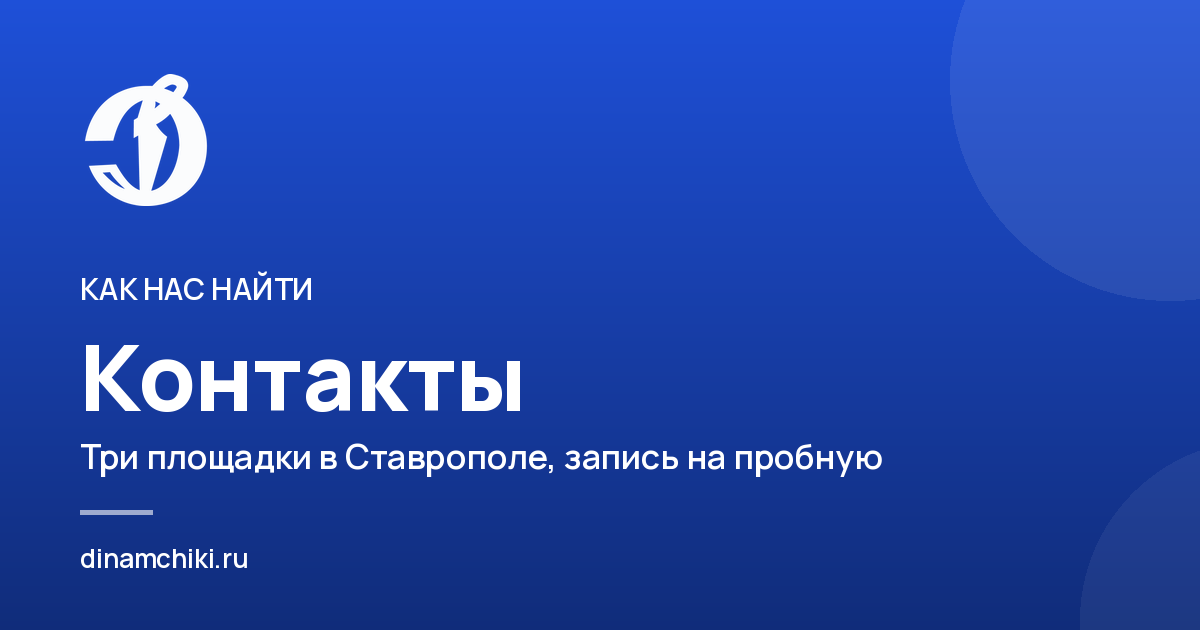
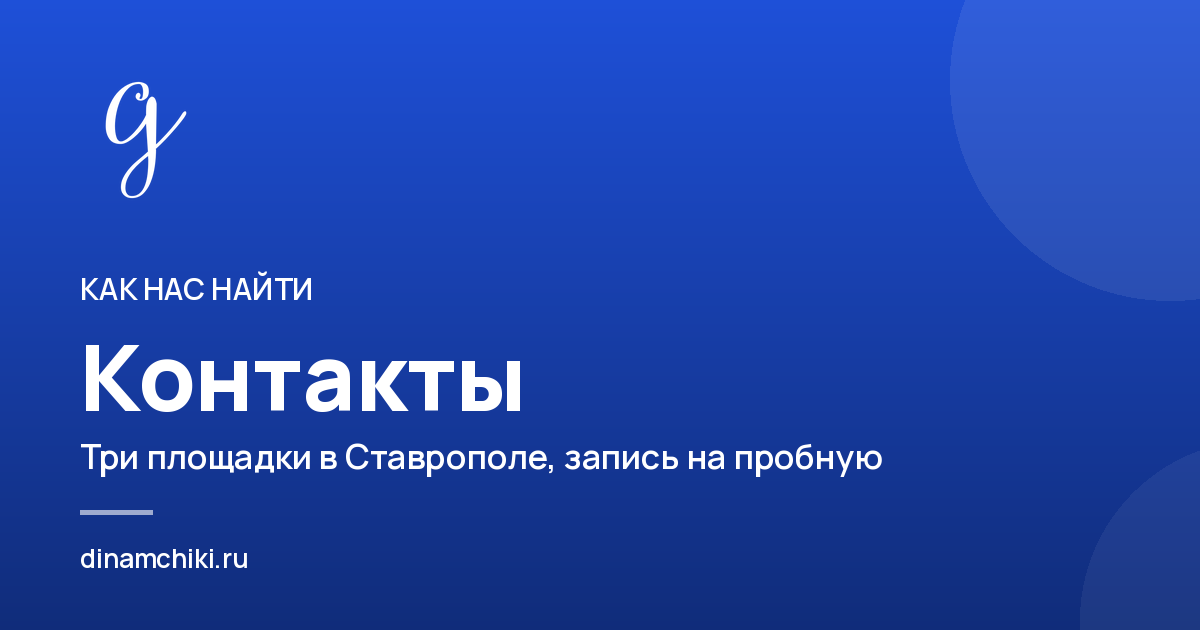
feat: новая эмблема клуба — строчная «д» шрифтом Little Venice
Буква переведена в кривые: public/logo/dinamchiki-d-{blue,white}.svg
(синяя #0066CC для светлого фона, белая для тёмного). LogoMark берёт SVG
вместо PNG с srcset. Фавикон — белая «д» на синем скруглённом квадрате
(dinamchiki-d-favicon.svg + PNG), apple-touch-icon — белая «д» на синем.
PNG логотипа, logo-512 и обложки соцсетей перегенерированы из того же знака.

Changed region(s): [[0.0617, 0.1206, 0.185, 0.3317]]

diff --git a/src/shared/ui/icons/LogoMark.vue b/src/shared/ui/icons/LogoMark.vue
@@ -1,14 +1,12 @@
 <script setup lang="ts">
 /**
- * Логотип клуба — «Д» с фигурой футболиста в круге.
+ * Эмблема клуба — строчная «д», набранная шрифтом Little Venice
+ * и переведённая в кривые (30.10.2026).
  *
- * Раньше здесь был нарисованный щит с монограммой: настоящего логотипа
- * у проекта не было. Клуб передал два файла, синий и белый, — они и стоят
- * тут. Вариант выбирается по фону: на светлой шапке синий, на тёмном
- * подвале белый.
- *
- * Отдаём готовые размеры через srcset, чтобы на ретине логотип не мылился,
- * а на обычном экране не тянулись лишние килобайты.
+ * Два варианта по фону: на светлой шапке синий, на тёмном подвале белый.
+ * Эмблема векторная, поэтому один SVG чёткий на любом экране.
+ * PNG того же знака лежат рядом (/logo/dinamchiki-*-{96,192,512}.png)
+ * для обложек соцсетей и мест, где SVG не принимают.
  */
 withDefaults(
   defineProps<{
@@ -16,9 +14,9 @@ withDefaults(
     /** 'blue' — для светлого фона, 'white' — для тёмного. */
     variant?: 'blue' | 'white'
     /**
-     * Логотип рядом с названием клуба — декоративный: текст «Динамчики»
+     * Эмблема рядом с названием клуба — декоративная: текст «Динамчики»
      * стоит рядом и уже читается скринридером. Осмысленную подпись
-     * задавайте явно там, где логотип стоит один.
+     * задавайте явно там, где эмблема стоит одна.
      */
     alt?: string
   }>(),
@@ -29,11 +27,7 @@ withDefaults(
 <template>
   <img
     class="logo"
-    :src="`/logo/dinamchiki-${variant}-192.png`"
-    :srcset="`/logo/dinamchiki-${variant}-96.png 96w,
-              /logo/dinamchiki-${variant}-192.png 192w,
-              /logo/dinamchiki-${variant}-512.png 512w`"
-    :sizes="`${size}px`"
+    :src="`/logo/dinamchiki-d-${variant}.svg`"
     :width="size"
     :height="size"
     :alt="alt"
@@ -46,7 +40,7 @@ withDefaults(
 .logo {
   display: block;
   object-fit: contain;
-  // Логотип квадратный: фиксируем соотношение, чтобы он не «прыгал»
+  // Эмблема квадратная: фиксируем соотношение, чтобы она не «прыгала»
   // до загрузки файла.
   aspect-ratio: 1 / 1;
   flex: 0 0 auto;

diff --git a/index.html b/index.html
@@ -3,11 +3,10 @@
   <head>
     <meta charset="UTF-8" />
     <!--
-      Иконки собраны из настоящего логотипа клуба (файлы переданы 04.09.2026).
-      Раньше здесь был нарисованный щит с монограммой — своего знака у проекта
-      не было. Нарисованный favicon.svg удалён, поэтому mask-icon больше нет:
-      Safari в этом случае берёт обычную иконку.
+      Эмблема клуба с 30.10.2026 — строчная «д» шрифтом Little Venice.
+      Иконка вкладки — белая «д» на синем квадрате (на светлой вкладке белая буква без фона пропала бы); SVG для браузеров, которые его берут, PNG — для остальных.
     -->
+    <link rel="icon" type="image/svg+xml" href="/logo/dinamchiki-d-favicon.svg" />
     <link rel="icon" type="image/png" sizes="32x32" href="/favicon/favicon-32.png" />
     <link rel="icon" type="image/png" sizes="48x48" href="/favicon/favicon-48.png" />
     <link rel="icon" type="image/png" sizes="192x192" href="/favicon/favicon-192.png" />
